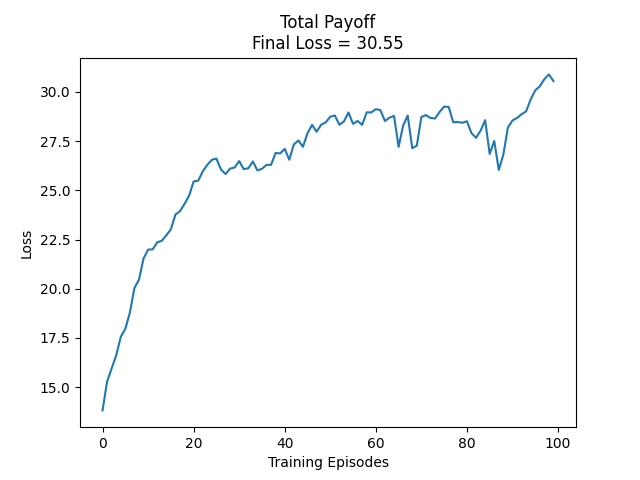
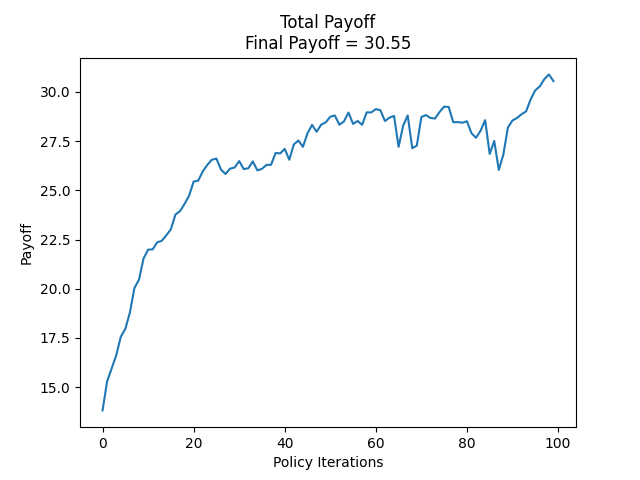
adjust visualization pipeline

Changed region(s): [[0.375, 0.0625, 0.6562, 0.125], [0.4062, 0.9375, 0.625, 1.0], [0.0312, 0.4688, 0.0625, 0.5625]]

diff --git a/Utils/train.py b/Utils/train.py
@@ -569,9 +569,13 @@ class ReportFactory:
         plt.clf()
         plt.close()
     
-    def get_training_loss_plot(self, loss_arr, loss_name, figname):
+    def get_training_loss_plot(self, loss_arr, loss_name, figname, loss = True):
         final_loss = float(loss_arr[-1])
-        self.plot_single(loss_arr, xlabel = "Training Episodes", ylabel = "Loss", title = loss_name + f"\nFinal Loss = {final_loss:.2f}", figname = figname, dir = "Plots")
+        if loss:
+            type = "Loss"
+        else:
+            type = "Payoff"
+        self.plot_single(loss_arr, xlabel = "Policy Iterations", ylabel = type, title = loss_name + f"\nFinal {type} = {final_loss:.2f}", figname = figname, dir = "Plots")
     
     def plot_stacked(self, x_arr, y_arr_lst, label_lst, xlabel, ylabel, title, figname):
         assert len(y_arr_lst) == len(label_lst)

diff --git a/data_calibration.py b/data_calibration.py
@@ -255,3 +255,13 @@ region_rate_plug_df.to_csv(f"Data/RegionRatePlug/region_rate_plug_{SCENARIO_NAME
 trip_demand_df.to_csv(f"Data/TripDemand/trip_demand_{SCENARIO_NAME}.tsv", index = False, sep = "\t")
 payoff_df.to_csv(f"Data/Payoff/payoff_{SCENARIO_NAME}.tsv", index = False, sep = "\t")
 map_df.to_csv(f"Data/Map/map_{SCENARIO_NAME}.tsv", index = False, sep = "\t")
+
+## Plot average trip demands
+trip_demand_df = pd.read_csv(f"Data/TripDemand/trip_demand_{SCENARIO_NAME}.tsv", sep = "\t")
+trip_demand_df = trip_demand_df[["T", "Count"]].groupby("T").sum().reset_index()
+plt.plot(trip_demand_df["T"], trip_demand_df["Count"])
+plt.xlabel("Time Steps")
+plt.ylabel("Average Trip Demand")
+plt.savefig(f"DataPlots/avg_trip_demand_{SCENARIO_NAME}.png")
+plt.clf()
+plt.close()
